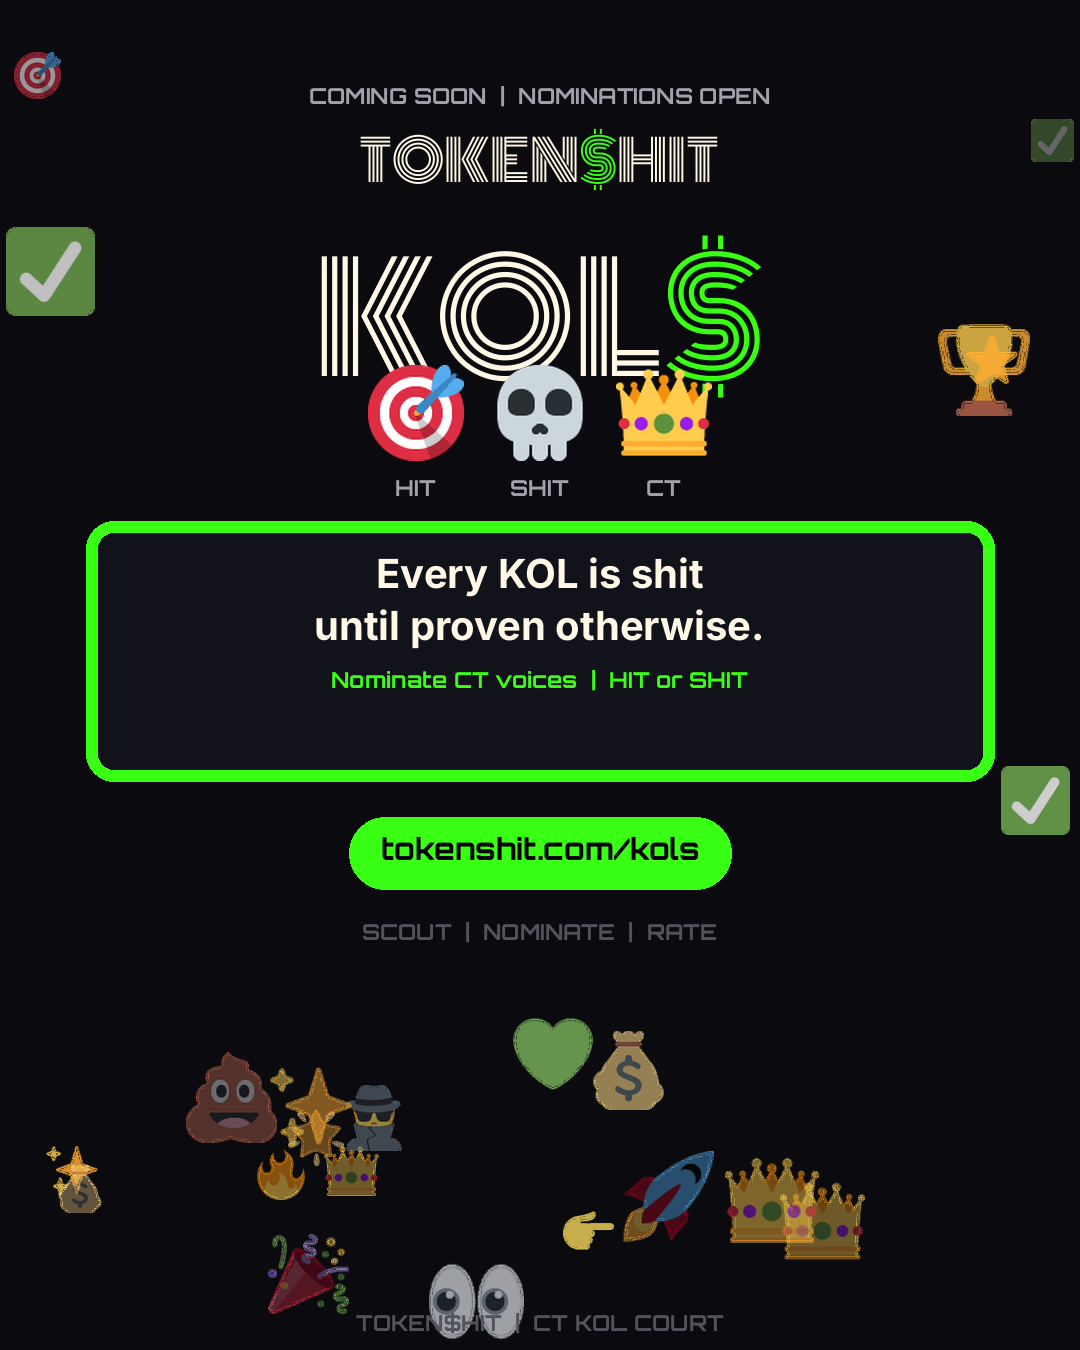
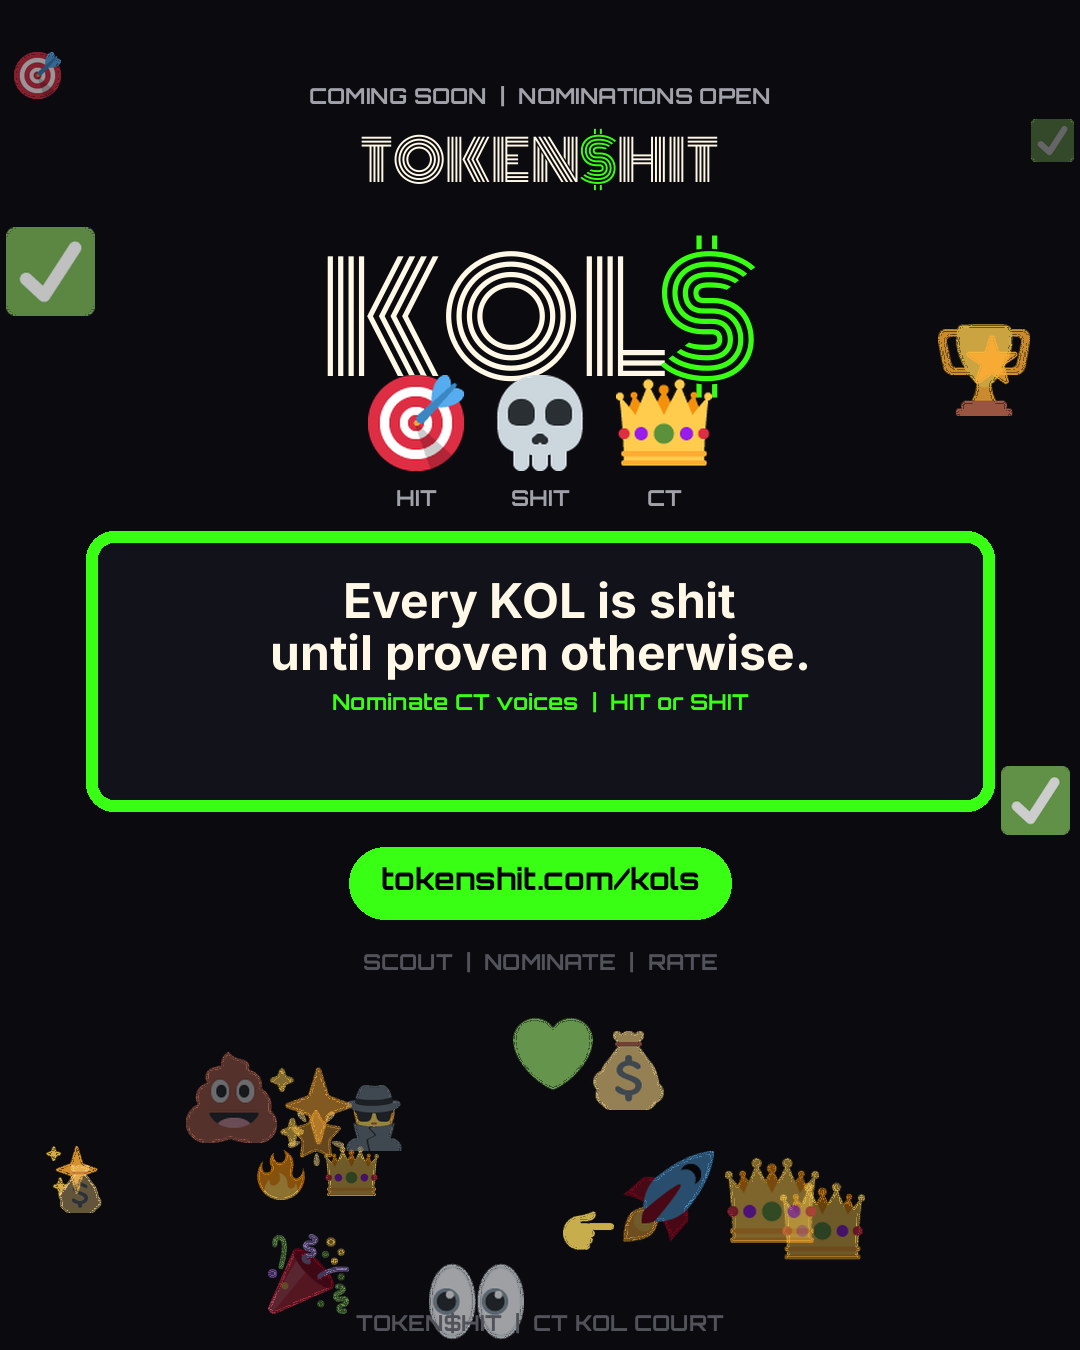
fix: bigger KOL poster type + tight KOL$ lockup

Changed region(s): [[0.0917, 0.1556, 0.9167, 0.5289], [0.0611, 0.56, 0.9472, 0.7156], [0.3361, 0.0933, 0.55, 0.1556]]

diff --git a/scripts/generate-kols-poster.py b/scripts/generate-kols-poster.py
@@ -38,6 +38,9 @@ def load_font(name: str, size: int) -> ImageFont.FreeTypeFont:
 
 
 def text_w(font: ImageFont.ImageFont, text: str) -> int:
+    # getlength = advance width (avoids Monoton $ bbox side-bearing blowouts)
+    if hasattr(font, "getlength"):
+        return int(font.getlength(text))
     bb = font.getbbox(text)
     return int(bb[2] - bb[0])
 
@@ -139,7 +142,7 @@ def make_poster(size: tuple[int, int], tag: str) -> Image.Image:
     mono_xl = load_font("Monoton-Regular.ttf", fs(148))
     orb = load_font("Orbitron-Bold.ttf", fs(30))
     orb_sm = load_font("Orbitron-Bold.ttf", fs(22))
-    inter = load_font("Inter-Bold.ttf", fs(40))
+    inter = load_font("Inter-Bold.ttf", fs(48))
     inter_sm = load_font("Inter-Regular.ttf", fs(28))
 
     # Taller stories: start content higher in upper-middle (less empty void)
@@ -163,18 +166,20 @@ def make_poster(size: tuple[int, int], tag: str) -> Image.Image:
     draw_glow_text(img, (x0, y), t2, f, CREAM, GOLD, glow_r=10)
     y += fs(88)
 
-    # KOL$ hero
-    k1, kd, k2 = "KOL", "$", ""
-    # just KOL$ big
-    hero = "KOL$"
-    # draw KOL cream + $ neon
-    f = mono_xl if h > w else mono_lg
-    tw_k = text_w(f, "KOL")
-    tw_d = text_w(f, "$")
-    hx = (w - tw_k - tw_d) // 2
-    draw_glow_text(img, (hx, y), "KOL", f, CREAM, GOLD, glow_r=18)
-    draw_glow_text(img, (hx + tw_k, y), "$", f, NEON, NEON, glow_r=22)
-    y += fs(160)
+    # KOL$ hero — cream KOL + neon $ (tight advance widths)
+    f = mono_xl if h / w < 1.4 else mono_lg
+    if h >= 1300 and w <= 1200:
+        f = mono_xl
+    parts = [("KOL", CREAM, GOLD), ("$", NEON, NEON)]
+    total = sum(text_w(f, t_) for t_, _, _ in parts)
+    # slight negative tracking so $ sits snug
+    track = -fs(8)
+    total += track * (len(parts) - 1)
+    hx = (w - total) // 2
+    for i, (t_, fill, glow) in enumerate(parts):
+        draw_glow_text(img, (hx, y), t_, f, fill, glow, glow_r=20)
+        hx += text_w(f, t_) + track
+    y += fs(170)
 
     # feature row: target skull crown
     feats = [("1f3af", "HIT"), ("1f480", "SHIT"), ("1f451", "CT")]
@@ -207,7 +212,7 @@ def make_poster(size: tuple[int, int], tag: str) -> Image.Image:
         "until proven otherwise.",
     ]
     sub = "Nominate CT voices  |  HIT or SHIT"
-    card_h = fs(260)
+    card_h = fs(280)
     rounded_rect(
         draw,
         (pad, card_top, w - pad, card_top + card_h),
@@ -216,7 +221,7 @@ def make_poster(size: tuple[int, int], tag: str) -> Image.Image:
         outline=(*NEON, 80),
         width=max(2, fs(3)),
     )
-    cy = card_top + fs(28)
+    cy = card_top + fs(40)
     for line in lines:
         lf = inter
         lw = text_w(lf, line)
